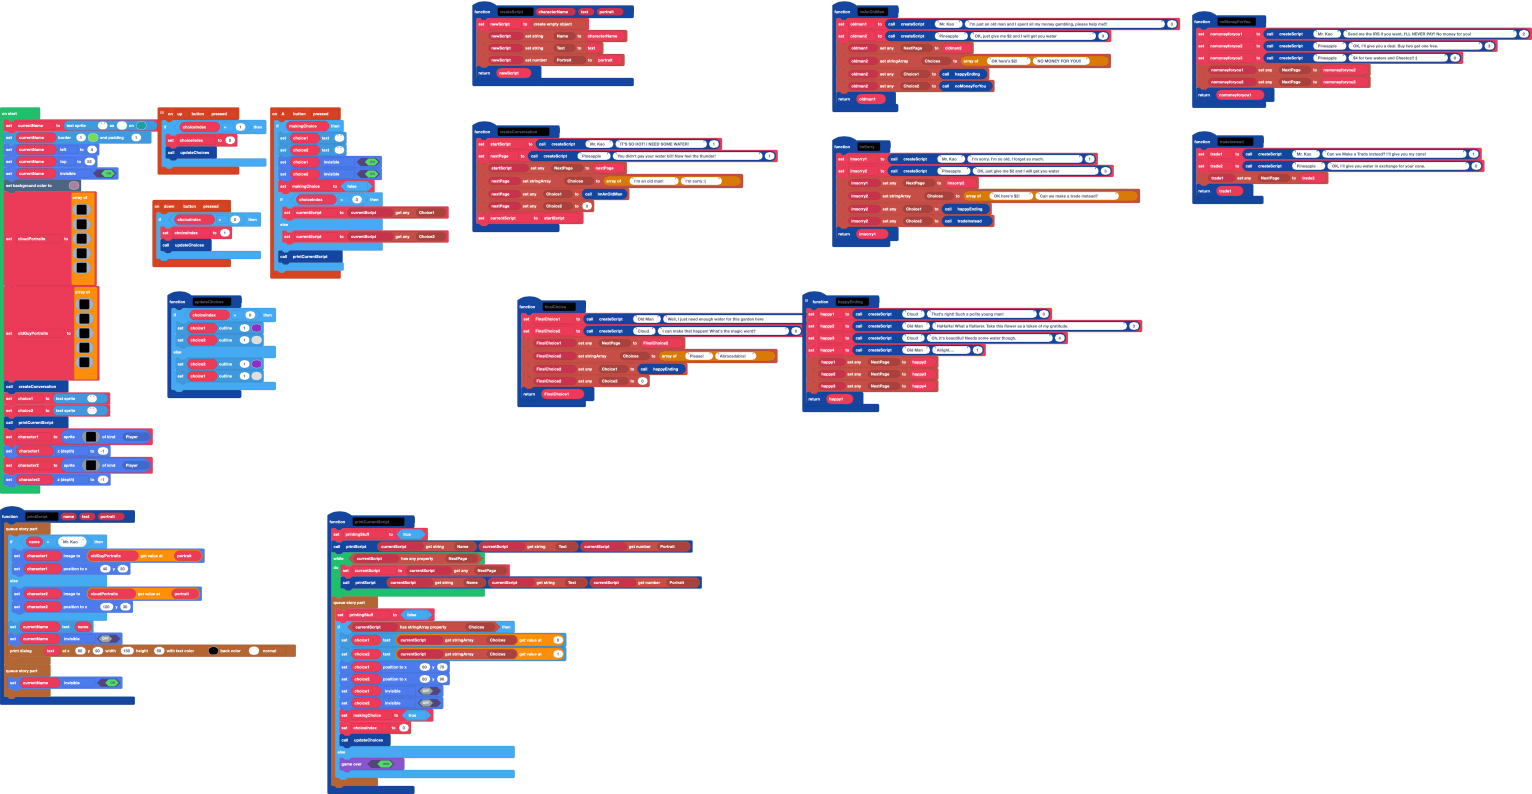
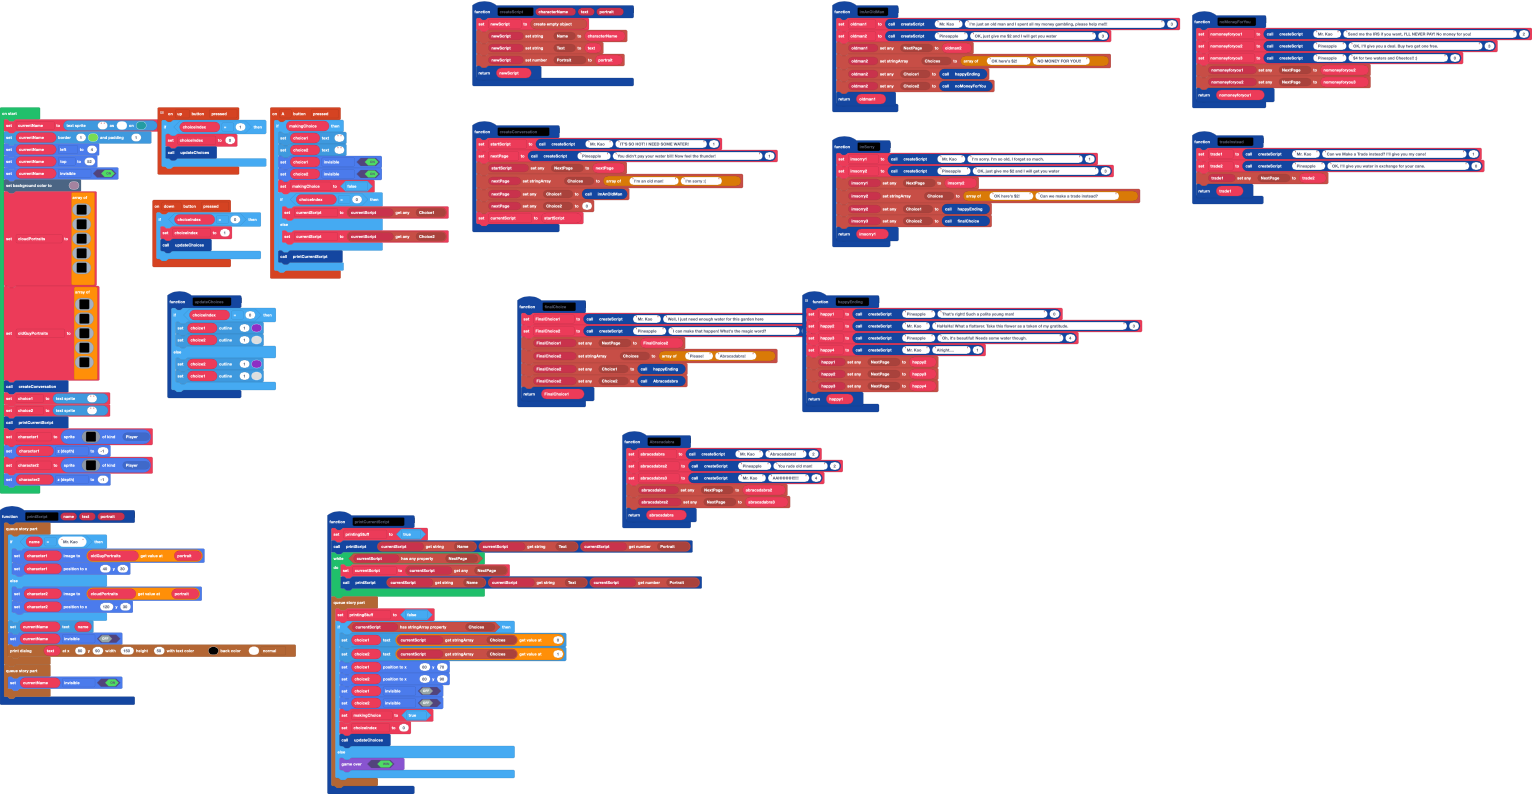
finished abracadabra

diff --git a/main.ts b/main.ts
@@ -34,22 +34,23 @@ namespace AnyProp {
 // 
 // 3 = happy
 function happyEnding () {
-    happy1 = createScript("Cloud", "That's right! Such a polite young man!", 0)
-    happy2 = createScript("Old Man", "HaHaHa! What a flatterer. Take this flower as a token of my gratitude.", 3)
-    happy3 = createScript("Cloud", "Oh, it's beautiful! Needs some water though.", 4)
-    happy4 = createScript("Old Man", "Alright....", 1)
+    happy1 = createScript("Pineapple", "That's right! Such a polite young man!", 0)
+    happy2 = createScript("Mr. Kao", "HaHaHa! What a flatterer. Take this flower as a token of my gratitude.", 3)
+    happy3 = createScript("Pineapple", "Oh, it's beautiful! Needs some water though.", 4)
+    happy4 = createScript("Mr. Kao", "Alright....", 1)
     blockObject.setAnyProperty(happy1, AnyProp.NextPage, happy2)
     blockObject.setAnyProperty(happy2, AnyProp.NextPage, happy3)
     blockObject.setAnyProperty(happy3, AnyProp.NextPage, happy4)
     return happy1
 }
 function imSorry () {
+    let imsorry3: blockObject.BlockObject = null
     imsorry1 = createScript("Mr. Kao", "I'm sorry. I'm so old, I forget so much.", 1)
     imsorry2 = createScript("Pineapple", "OK, just give me $2 and I will get you water", 3)
     blockObject.setAnyProperty(imsorry1, AnyProp.NextPage, imsorry2)
     blockObject.setStringArrayProperty(imsorry2, StrArrayProp.Choices, ["OK here's $2!", "Can we make a trade instead?"])
     blockObject.setAnyProperty(imsorry2, AnyProp.Choice1, happyEnding())
-    blockObject.setAnyProperty(imsorry2, AnyProp.Choice2, tradeInstead())
+    blockObject.setAnyProperty(imsorry3, AnyProp.Choice2, finalChoice())
     return imsorry1
 }
 // microsoft/arcade-block-objects
@@ -111,12 +112,12 @@ function noMoneyForYou () {
     return nomoneyforyou1
 }
 function finalChoice () {
-    FinalChoice1 = createScript("Old Man", "Well, I just need enough water for this garden here", 0)
-    FinalChoice2 = createScript("Cloud", "I can make that happen! What's the magic word?", 0)
+    FinalChoice1 = createScript("Mr. Kao", "Well, I just need enough water for this garden here", 0)
+    FinalChoice2 = createScript("Pineapple", "I can make that happen! What's the magic word?", 0)
     blockObject.setAnyProperty(FinalChoice1, AnyProp.NextPage, FinalChoice2)
     blockObject.setStringArrayProperty(FinalChoice2, StrArrayProp.Choices, ["Please!", "Abracadabra!"])
     blockObject.setAnyProperty(FinalChoice2, AnyProp.Choice1, happyEnding())
-    blockObject.setAnyProperty(FinalChoice2, AnyProp.Choice2, 0)
+    blockObject.setAnyProperty(FinalChoice2, AnyProp.Choice2, Abracadabra())
     return FinalChoice1
 }
 function updateChoices () {
@@ -180,6 +181,17 @@ function createScript (characterName: string, text: string, portrait: number) {
     blockObject.setNumberProperty(newScript, NumProp.Portrait, portrait)
     return newScript
 }
+function Abracadabra () {
+    abracadabra = createScript("Mr. Kao", "Abracadabra!", 2)
+    abracadabra2 = createScript("Pineapple", "You rude old man!", 2)
+    abracadabra3 = createScript("Mr. Kao", "AAHHHHH!!!!!", 4)
+    blockObject.setAnyProperty(abracadabra, AnyProp.NextPage, abracadabra2)
+    blockObject.setAnyProperty(abracadabra2, AnyProp.NextPage, abracadabra3)
+    return abracadabra
+}
+let abracadabra3: blockObject.BlockObject = null
+let abracadabra2: blockObject.BlockObject = null
+let abracadabra: blockObject.BlockObject = null
 let newScript: blockObject.BlockObject = null
 let trade2: blockObject.BlockObject = null
 let trade1: blockObject.BlockObject = null
